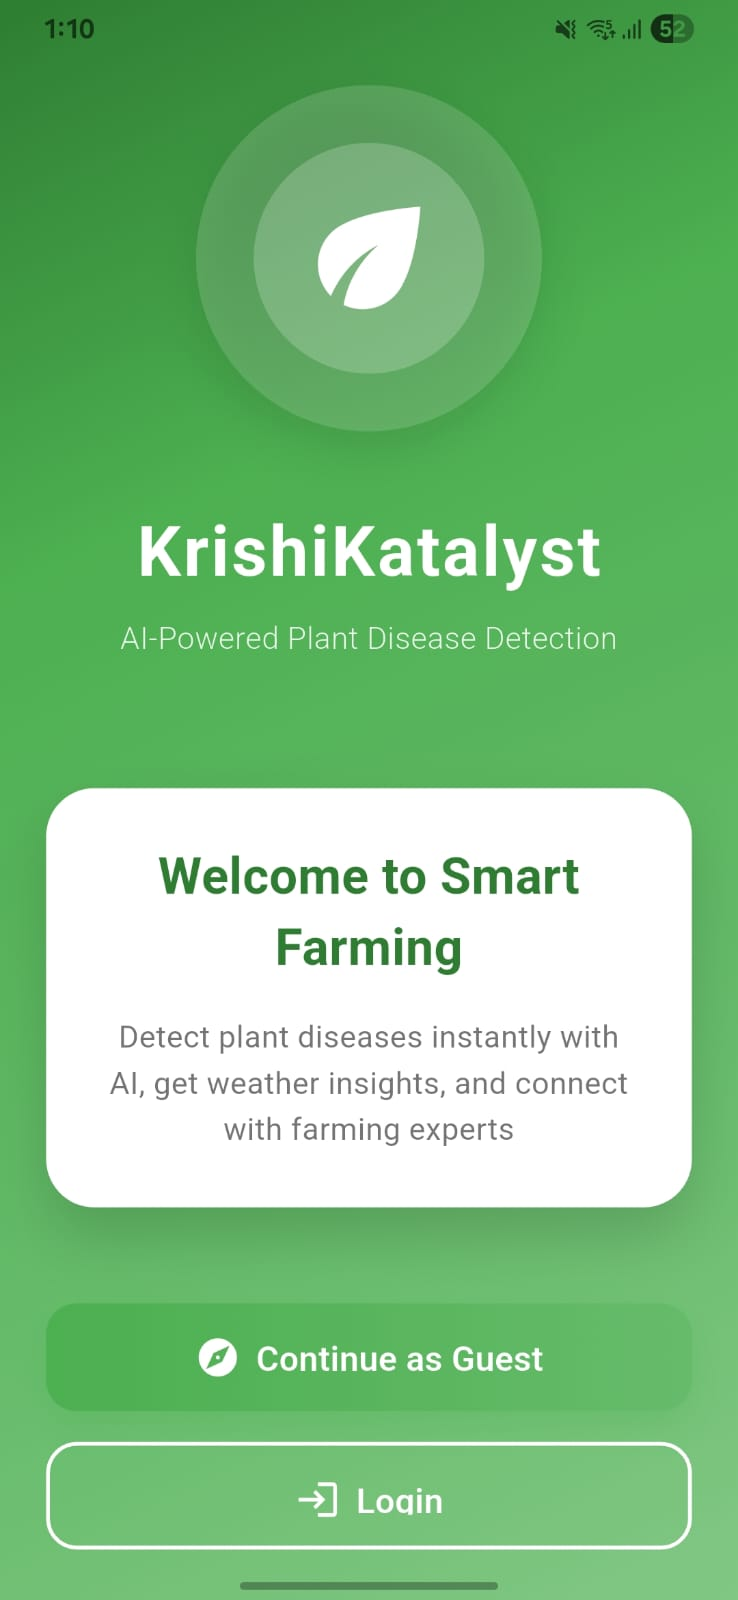
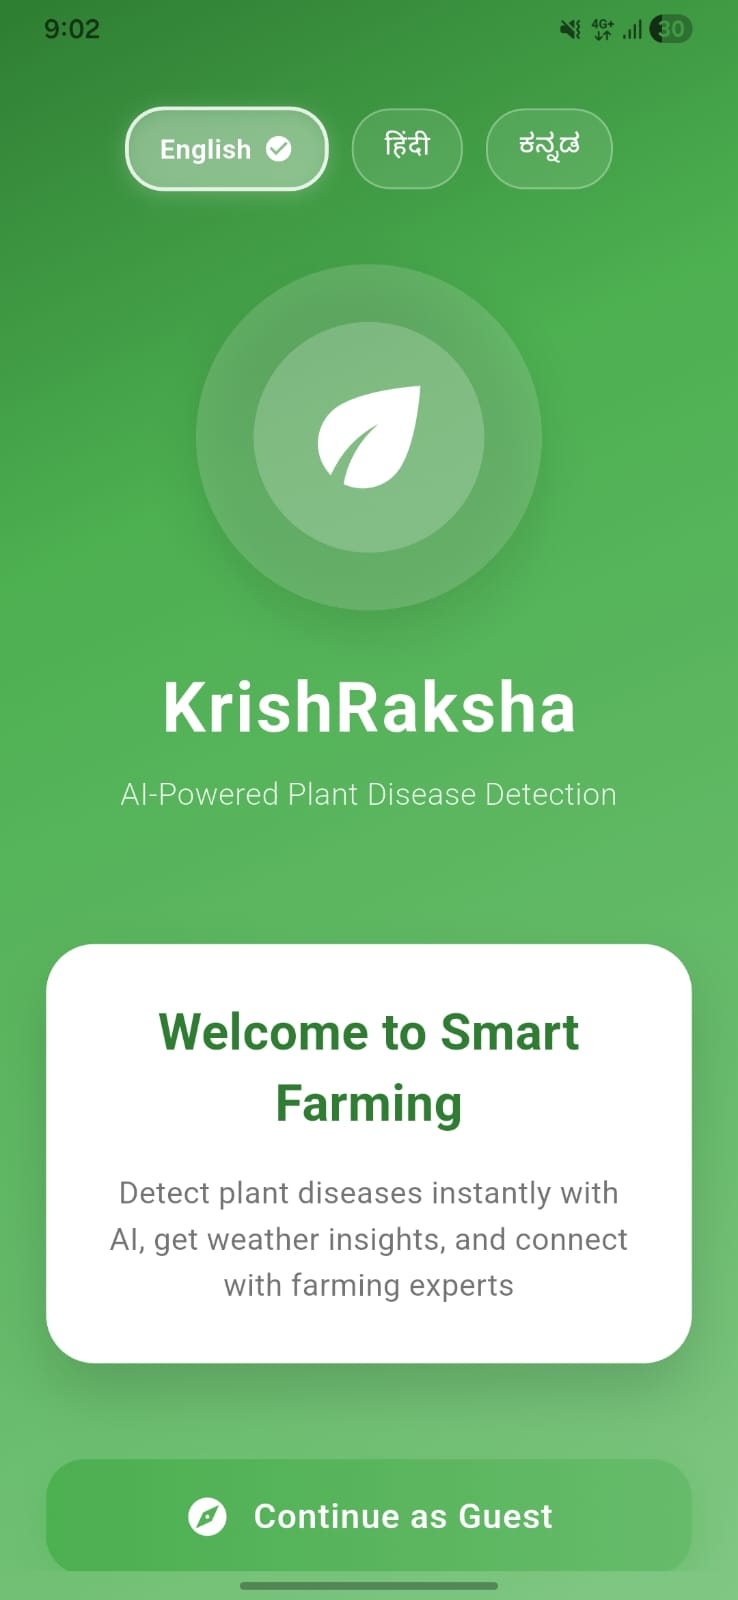
chore: update portfolio summary and krishikatalyst image

diff --git a/PORTFOLIO_SUMMARY.md b/PORTFOLIO_SUMMARY.md
@@ -1,4 +1,4 @@
-# Portfolio Build Summary
+ Build Summary
 
 ## Project Selection - Top 3 Projects
 